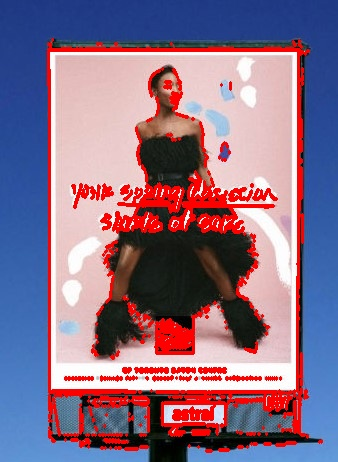
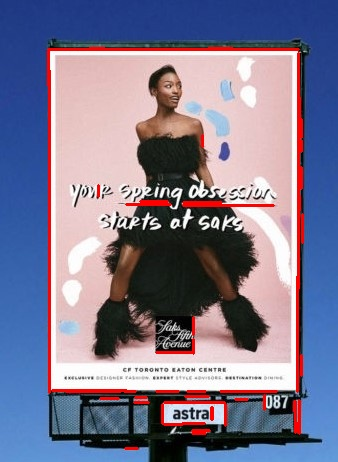
made the "findLinesByMaxGrad" a bit more dynamic

diff --git a/helpFunctions.py b/helpFunctions.py
@@ -159,7 +159,7 @@ def _diagonalLine(imgMatrix, x, y):
     return Line(startPoint, [endPointX, endPointY])
 
 
-def findLinesByMaxGrad(imgMatrix):
+def findLinesByMaxGrad(imgMatrix,minLineLength=2):#for start the variable for minLength is 2
     foundlines = []
     for y in range(len(imgMatrix)):
         for x in range(len(imgMatrix[y])):
@@ -181,15 +181,15 @@ def findLinesByMaxGrad(imgMatrix):
                     checkDown=False  # the point is already a part of a line found before
             if checkRight:
                 line = _lineToRight(imgMatrix, x, y)
-                if line.lineLength() > 0:
+                if line.lineLength() >= minLineLength:
                     foundlines.append(line)
             if checkDown:
                 line = _lineToDown(imgMatrix, x, y)
-                if line.lineLength() > 0:
+                if line.lineLength() >= minLineLength:
                     foundlines.append(line)
             if checkDiagonal:
                 line = _diagonalLine(imgMatrix, x, y)
-                if line.lineLength() > 0:
+                if line.lineLength() >= minLineLength:
                     foundlines.append(line)
 
     return foundlines
